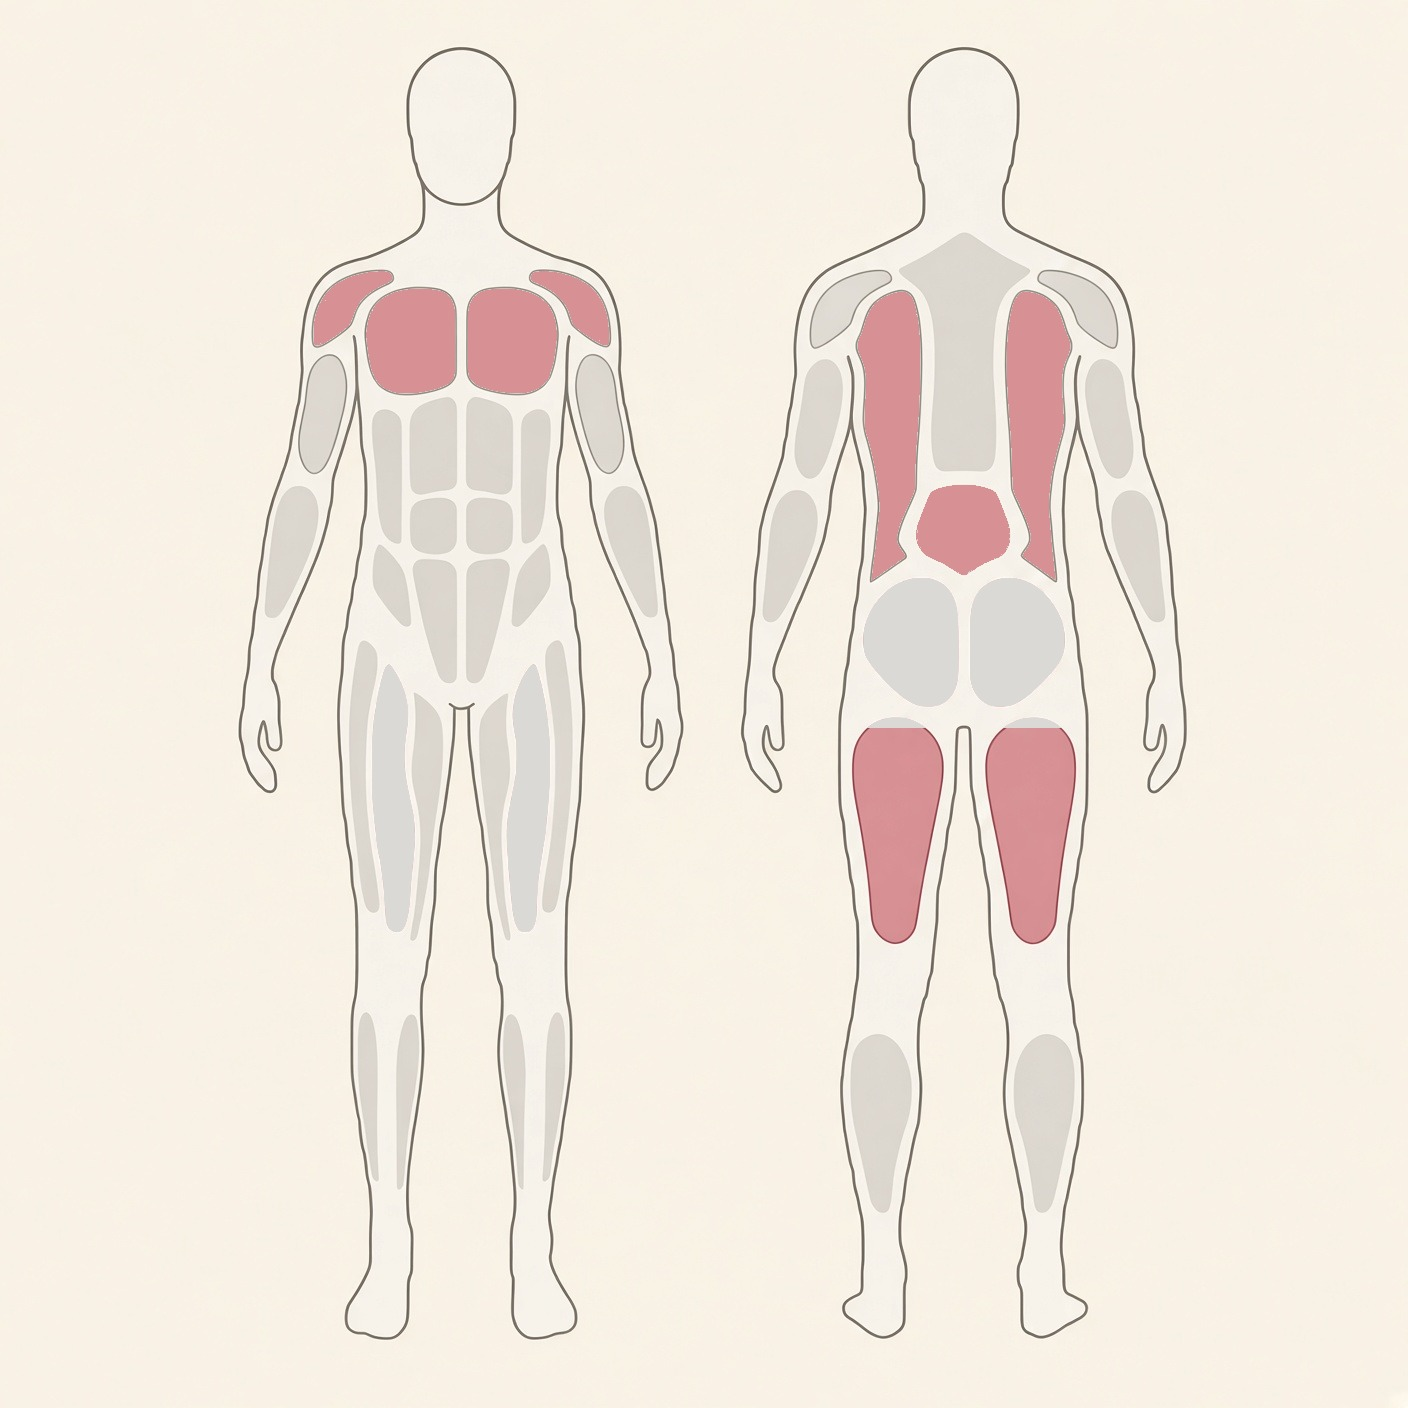
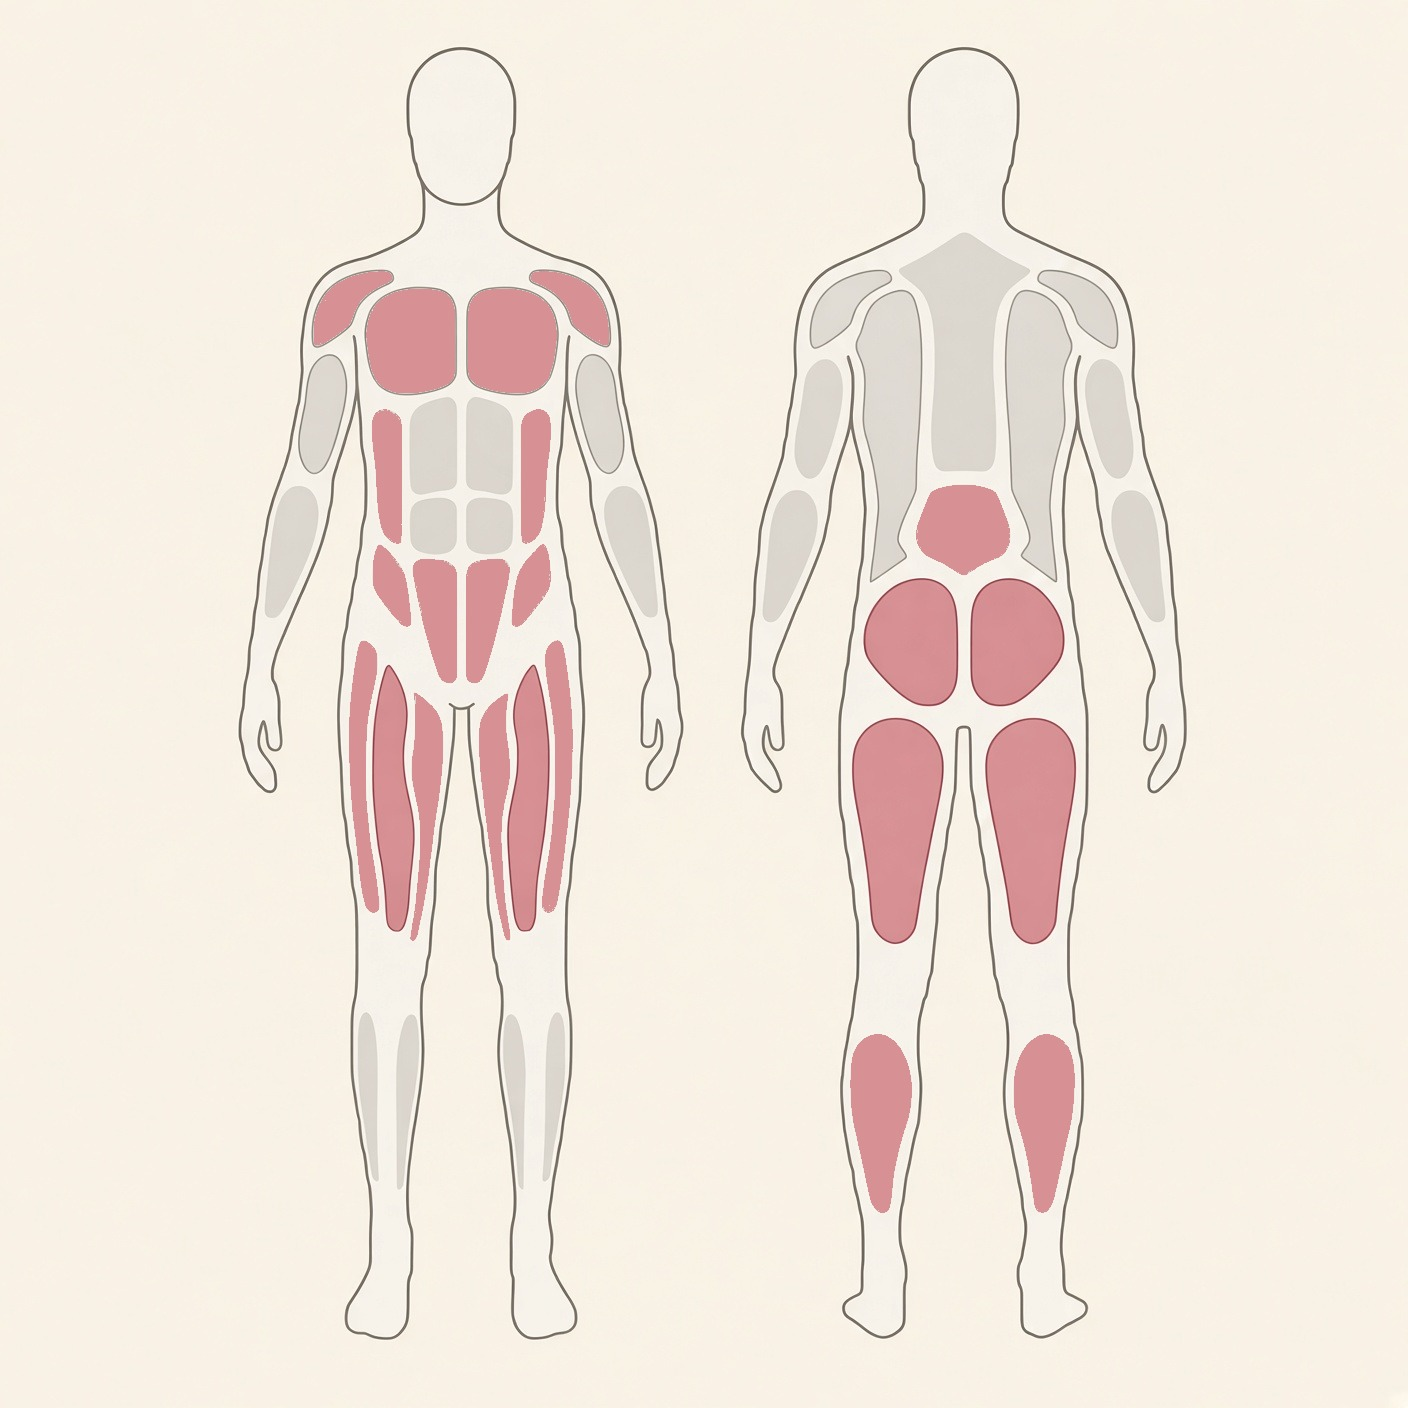
Rebuild the two September class routines to the filmed holds, and let a routine embed its class
Tight Hips After Running and Rest-Day Recovery were built from the plan before
Katie filmed; the classes ended up with different sequences. Tight Hips is now
Dragon, Sleeping Swan and a reclined twist (18 min on the timer, 20 on YouTube
with the intro). Rest-Day Recovery is Supported Fish with butterfly legs, a
reclined twist, Banana, Reclined Swan, Saddle and legs up the wall (26 min).
Copy, FAQs, pins and the Strava routine data follow the new holds; the
rest-day muscle map is re-lit from the clean source for what the sequence
actually works, and the tight-hips caption now names the quads.

Routines take an optional video block (YouTube id + label). The routine page
embeds the class above the timer when the id is set and shows nothing when it
is blank, and the field is in the Pages CMS so Katie can paste the id herself.
Both ids stay blank until the videos are public.

diff --git a/src/lib/routineMaps.ts b/src/lib/routineMaps.ts
@@ -21,8 +21,8 @@ export const ROUTINE_MAPS: Record<string, { works: string }> = {
   'deep-legs-hamstrings':     { works: 'the hamstrings, calves and feet' },
   'lower-back-release':       { works: 'the lower back, upper back, glutes and hamstrings' },
   'full-body-reset':          { works: 'the shoulders, chest, back, glutes and thighs' },
-  'tight-hips-after-running': { works: 'the hip flexors, outer hip, glutes and lower back' },
-  'rest-day-recovery':        { works: 'the chest, shoulders, whole back line and hamstrings' },
+  'tight-hips-after-running': { works: 'the hip flexors, quads, outer hip, glutes and lower back' },
+  'rest-day-recovery':        { works: 'the chest, shoulders, hip flexors, quads, inner thighs, side body, glutes, lower back and the backs of the legs' },
   'after-the-run':            { works: 'the hip flexors, quads, glutes, hamstrings, calves and lower back' },
 };
 

diff --git a/src/content.config.ts b/src/content.config.ts
@@ -244,6 +244,9 @@ const routines = defineCollection({
     minutes: z.number().int().positive(), // true runtime — verified against the sequence below
     intro: z.string().min(1), // a short paragraph in Katie's voice
     props: z.array(z.string()).default([]),
+    // The YouTube class this routine is the timer for, embedded on the page.
+    // `youtube_id` stays empty until the class is public; nothing renders without it.
+    video: z.object({ youtube_id: z.string().default(''), label: z.string().optional() }).optional(),
     steps: z
       .array(
         z.object({

diff --git a/src/styles/global.css b/src/styles/global.css
@@ -297,6 +297,10 @@ h1 {
 .routine-intro { max-width: 62ch; margin: 26px auto 0; }
 .routine-intro p { margin: 0; font-size: 17px; line-height: 1.7; }
 
+.routine-video { max-width: 62ch; margin: 30px auto 0; }
+.routine-video h2 { margin: 0 0 4px; }
+.routine-video-label { margin: 0 0 12px; font-size: 15px; line-height: 1.6; color: var(--ink-soft); }
+
 .player-section { margin: 30px 0 0; }
 .player-help { max-width: 52ch; margin: 16px auto 0; text-align: center; font-size: 14px; color: var(--ink-soft); line-height: 1.6; }
 

diff --git a/src/content/routines/rest-day-recovery.md b/src/content/routines/rest-day-recovery.md
@@ -1,52 +1,62 @@
 ---
 title: "Rest-Day Recovery"
 slug: "rest-day-recovery"
-tagline: "30 supported minutes on the day you don't run"
+tagline: "26 supported minutes on the day you don't run"
 intent: "full-body"
 audience: "runners"
-hero_pose: "supported-fish"
+hero_pose: "supported-fish-butterfly"
 level: "all-levels"
-minutes: 30
+minutes: 26
 props: ["bolster or rolled blanket", "a wall"]
-intro: "Recovery is the half of training most runners skip, and it's the half where the running actually lands. Nothing here asks anything of you. Everything is supported, the holds are long, and the whole thing happens on your back or folded over your legs. Open the chest that running closes, let the back of the body lengthen, wring out the spine, then drain the legs and stop. Plan a nap afterward if you can."
+video:
+  youtube_id: ""
+  label: "Rest Day Recovery Yin Yoga for Runners"
+intro: "Recovery is the half of training most runners skip, and it's the half where the running actually lands. Nothing here asks much of you. You start lying back over a bolster with the knees wide, and almost all of it happens on your back: a twist, a long stretch down the side, the glutes, then the front of the thighs in Saddle, and five minutes with the legs up the wall to finish. Plan a nap afterwards if you can."
 steps:
-  - pose: "supported-fish"
-    seconds: 300
-    note: "Bolster or a rolled blanket along the spine, arms wide. Open what a week of running and sitting closed."
-  - pose: "caterpillar"
+  - pose: "supported-fish-butterfly"
     seconds: 240
-    note: "Fold over straight legs and let the head hang. The whole back line, from heels to neck. Round is fine."
+    note: "Bolster along the spine, soles together, knees wide with a cushion under each. Open what a week of running and sitting closed."
   - pose: "reclined-twist"
-    seconds: 180
+    seconds: 120
     sides: 2
     note: "Knees to one side, gaze the other way. Shoulders heavy. Slow."
+  - pose: "banana"
+    seconds: 120
+    sides: 2
+    note: "Hips stay put, feet and shoulders walk to one side. The whole side body and the outer hip."
+  - pose: "reclined-swan"
+    seconds: 120
+    sides: 2
+    note: "Ankle over the opposite thigh, a figure four. The glutes and outer hip, with the back on the floor."
+  - pose: "saddle"
+    seconds: 180
+    note: "Sit between the heels and lean back onto the bolster. Stay upright if the knees say so. The front of the thighs."
   - pose: "legs-up-the-wall"
-    seconds: 480
-    note: "Hips close to the wall, legs up, arms soft. Eight minutes. Let the legs empty out."
-  - pose: "corpse"
     seconds: 300
-    note: "Legs down, nothing to do. Let it all soak in."
+    note: "Hips close to the wall, legs up, arms soft. Five minutes. Let the legs empty out."
 faq:
   - q: "Should runners do yoga on rest days?"
     a: "Yes, if it's this kind. A rest day is for recovery, and slow, supported Yin gives the tissue and the nervous system exactly that, without adding any training load. Save the moving, flowing kind for another day."
   - q: "Will this help with sore legs?"
-    a: "It will help the day feel more livable. Legs up the wall gets the blood moving, the twist unclenches the bracing that soreness creates, and the long holds settle you. It won't erase the soreness, and nothing does."
+    a: "It will help the day feel more livable. Legs up the wall gets the blood moving, the twist and the side stretch unclench the bracing that soreness creates, and the long holds settle you. It won't erase the soreness, and nothing does."
   - q: "What do I need for this routine?"
-    a: "A bit of wall, and something to lie over for Supported Fish. A bolster is lovely, a rolled blanket or a couple of folded towels does the same job."
+    a: "A bit of wall, and something to lie back over for Supported Fish and Saddle. A bolster is lovely, a rolled blanket or a couple of folded towels does the same job. A cushion under each knee in the first pose is worth finding."
+  - q: "Saddle hurts my knees. What do I do?"
+    a: "Stay upright, sitting between the heels, or sit up on a block so there's less bend in the knee. If even that is too much, skip it and lie back over the bolster with the legs long instead. Saddle should live in the front of the thighs, never the knee."
   - q: "Can I do this the night before a race?"
-    a: "The wall and the corpse pose, yes, any time. Keep the fold and the twist gentle in race week, and stay well away from your end range. Calm is the goal that night, not depth."
+    a: "The wall, yes, any time. Keep Saddle, the twist and the side stretch gentle in race week, and stay well away from your end range. Calm is the goal that night, not depth."
 membership_cta: "This routine sits inside The Runner's Reset alongside the full recovery sessions, with the video, the why and written cues."
-summary: "A 30-minute fully supported Yin routine for a runner's rest day: Supported Fish, Caterpillar, a reclined twist, eight minutes up the wall, and stillness to close."
+summary: "A 26-minute supported Yin routine for a runner's rest day: Supported Fish with butterfly legs, a reclined twist, Banana, Reclined Swan, Saddle and five minutes up the wall."
 pin_angles:
   - audience: "for runners"
     headline: "The half of training you keep skipping"
-    proof: "Thirty supported minutes for a rest day."
+    proof: "Twenty-six supported minutes for a rest day."
   - audience: "for tired legs"
     headline: "Rest day, done properly"
-    proof: "Chest, back, twist, legs up the wall. Timer built in."
-seo_title: "Rest-Day Recovery Yin for Runners — 30-Minute Routine"
-seo_description: "A 30-minute supported Yin Yoga routine for a runner's rest day: Supported Fish, Caterpillar, reclined twist, legs up the wall and Corpse, with a built-in hold timer."
+    proof: "Chest, twist, hips, thighs, then legs up the wall."
+seo_title: "Rest-Day Recovery Yin for Runners — 26-Minute Routine"
+seo_description: "A 26-minute supported Yin Yoga routine for a runner's rest day: Supported Fish with butterfly legs, reclined twist, Banana, Reclined Swan, Saddle and legs up the wall, with a built-in hold timer."
 ---
 
-<!-- The sequence from the September runner class "Rest-Day Recovery Yin for
-Runners". Pairs with the race-week and does-stretching-help posts. -->
+<!-- The sequence from the September runner class "Rest Day Recovery Yin Yoga
+for Runners". Fill in video.youtube_id once the class is public. -->

diff --git a/src/content/routines/tight-hips-after-running.md b/src/content/routines/tight-hips-after-running.md
@@ -1,27 +1,26 @@
 ---
 title: "Tight Hips After Running"
 slug: "tight-hips-after-running"
-tagline: "20 minutes for the front of the hip"
+tagline: "18 minutes, three shapes, front of the hip to back"
 intent: "hips"
 audience: "runners"
 hero_pose: "dragon"
 level: "all-levels"
-minutes: 20
+minutes: 18
 props: []
-intro: "Running shortens the front of the hip, and sitting finishes the job. This is the four-shape practice from the tight-hips post: the front of the hip, the back of the hip, both sides at once, and a twist to close. Do it after a run while you're still warm, or on a rest day."
+video:
+  youtube_id: ""
+  label: "Yin Yoga for Tight Hips After Running (20 min)"
+intro: "Running shortens the front of the hip, and sitting afterwards finishes the job. This is the three-shape practice from the class: Dragon for the front of the hip, Sleeping Swan for the back of it, and a reclined twist to undo the run through the spine. Long holds, nothing fancy. Do it after a run while you're still warm, or on a rest day."
 steps:
   - pose: "dragon"
     seconds: 180
     sides: 2
     note: "Low lunge, back knee down. Let the hips sink. Keep the feeling in the hip, not the knee."
   - pose: "sleeping-swan"
-    seconds: 150
+    seconds: 180
     sides: 2
     note: "Front shin across the mat, fold over it and rest. The glutes and the outer hip."
-  - pose: "deer"
-    seconds: 90
-    sides: 2
-    note: "One shin in front, one behind. Sit tall, that's the whole pose. Kind to the knees."
   - pose: "reclined-twist"
     seconds: 120
     sides: 2
@@ -32,21 +31,22 @@ faq:
   - q: "How often do runners need to do this?"
     a: "A couple of times a week, kept up for a few weeks, does more than one heroic session. You'll feel the difference after one practice, and it fades over a few days. This tissue responds to time, not effort."
   - q: "What if I only have ten minutes?"
-    a: "Do the first two shapes on their own. Dragon and Sleeping Swan reach the front and the back of the hip, and that's most of the work."
+    a: "Do Dragon on both sides and stop there. Three minutes a side on the front of the hip is most of the work, and the rest can wait for a day when you have the full eighteen."
   - q: "My front knee hurts in Sleeping Swan. What do I do?"
-    a: "Bring the shin closer to your body, or slide a cushion under the hip on that side so it isn't hanging. If the knee still complains, do Deer instead and stay upright."
+    a: "Bring the shin closer to your body, or slide a cushion under the hip on that side so it isn't hanging. If the knee still complains, lie on your back and do Reclined Swan instead. The feeling belongs in the hip, never the knee."
 membership_cta: "This routine sits inside The Runner's Reset alongside a full hips session with the video, the why and written cues."
-summary: "A 20-minute Yin routine for runners' hips: Dragon, Sleeping Swan, Deer and a reclined twist, after a run or on a rest day."
+summary: "An 18-minute Yin routine for runners' hips: Dragon, Sleeping Swan and a reclined twist, after a run or on a rest day."
 pin_angles:
   - audience: "for tight hips"
-    headline: "Twenty minutes for a runner's hips"
-    proof: "Four slow holds, front of the hip to back."
+    headline: "Eighteen minutes for a runner's hips"
+    proof: "Three slow holds, front of the hip to back."
   - audience: "for runners"
     headline: "The run tightens it, the chair keeps it"
-    proof: "Dragon, Swan, Deer, a twist. Timer built in."
-seo_title: "Yin for Tight Hips After Running — 20-Minute Routine"
-seo_description: "A 20-minute Yin Yoga routine for runners with tight hips: Dragon, Sleeping Swan, Deer and a reclined twist, with a built-in hold timer. For after a run or a rest day."
+    proof: "Dragon, Sleeping Swan, a twist. Timer built in."
+seo_title: "Yin for Tight Hips After Running — 18-Minute Routine"
+seo_description: "An 18-minute Yin Yoga routine for runners with tight hips: Dragon, Sleeping Swan and a reclined twist, with a built-in hold timer. For after a run or a rest day."
 ---
 
-<!-- The four shapes from the "Tight Hips From Running" post and the September
-runner class of the same name. -->
+<!-- The three shapes from the September runner class "Yin Yoga for Tight Hips
+After Running" (20 min on YouTube; the timer runs 18 without the intro). Fill
+in video.youtube_id once the class is public. -->
